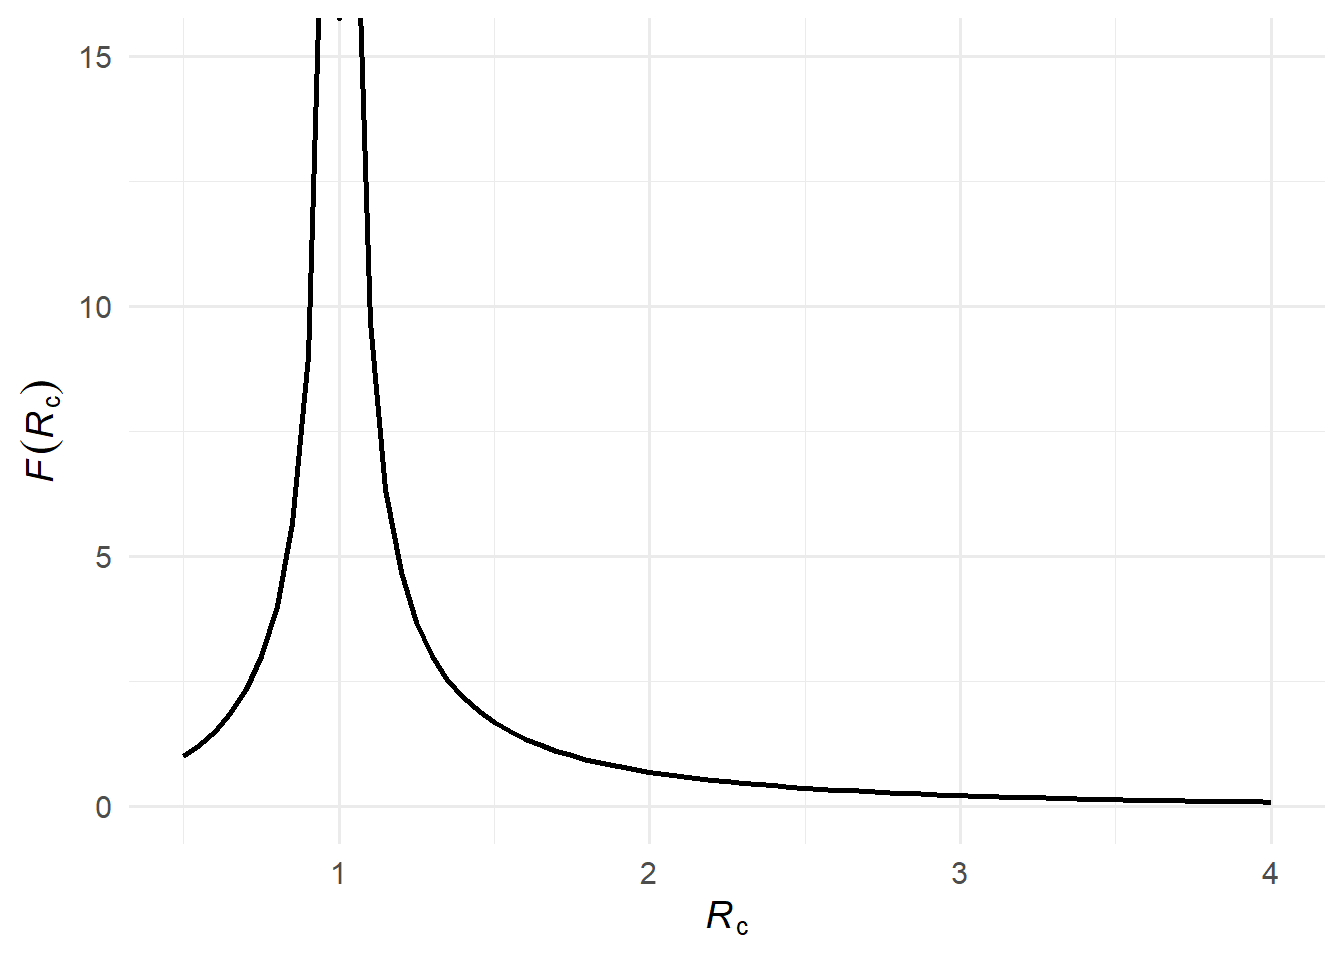
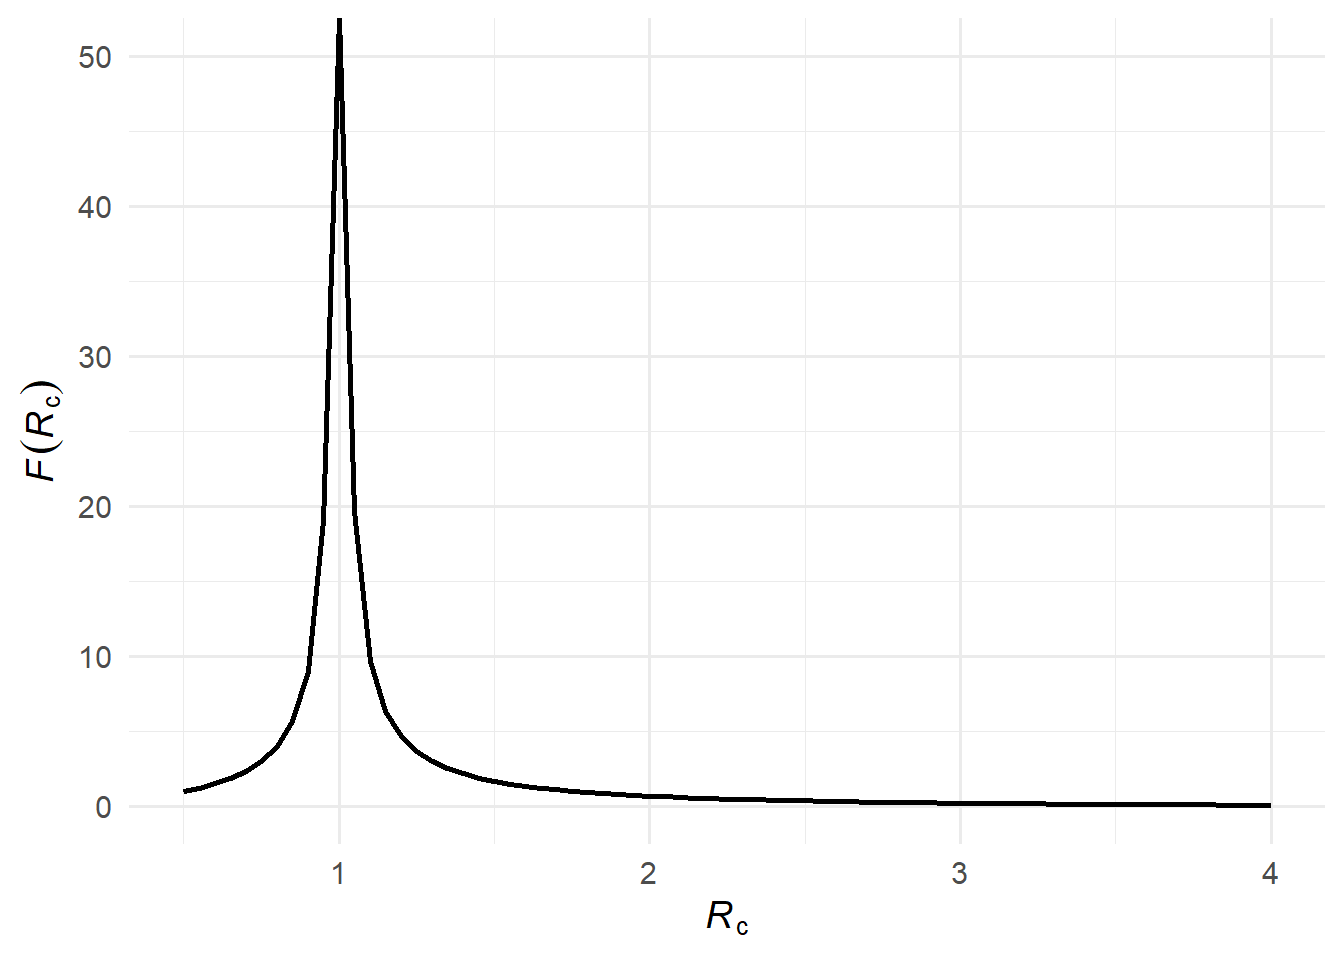
finalized

diff --git a/docs/blog/posts/infections_averted_isolation/index.html b/docs/blog/posts/infections_averted_isolation/index.html
@@ -188,19 +188,19 @@ div.csl-indent {
 <p>When a newly infected person successfully isolates, how many downstream infections does that prevent? The answer depends on the structure of transmission — not just the average reproduction number <span class="math inline">\(\mathcal{R}_c\)</span> (denoting a reproduction number under control), but also on how heterogeneous transmission is, and critically, on how many other infected individuals are circulating at the same time.</p>
 <section id="setting-up-the-problem" class="level2">
 <h2 class="anchored" data-anchor-id="setting-up-the-problem">Setting up the problem</h2>
-<p>Consider a large, well-mixed susceptible population. Each infected individual generates a random number of secondary infections drawn from an <strong>offspring distribution</strong> with probability mass function <span class="math inline">\(p_k = \Pr(K = k)\)</span> and mean <span class="math inline">\(\mathcal{R}_c\)</span>. We work with two canonical choices: Poisson and negative binomial distributions. Both have the same mean <span class="math inline">\(\mathcal{R}_c\)</span> but the negative binomial distrubtion has a additional parameter dispersion <span class="math inline">\(\kappa = 0.16\)</span>, which means that a small fraction of individuals cause a disproportionately large fraction of transmissions (<em>superspreading</em>).</p>
+<p>Consider a large, well-mixed susceptible population. Each infected individual generates a random number of secondary infections drawn from an <strong>offspring distribution</strong> with probability mass function <span class="math inline">\(p_k = \Pr(K = k)\)</span> and mean <span class="math inline">\(\mathcal{R}_c\)</span>. We consider two canonical choices: Poisson and negative binomial. Both share the same mean <span class="math inline">\(\mathcal{R}_c\)</span>, but the negative binomial has an additional dispersion parameter <span class="math inline">\(\kappa = 0.16\)</span>, meaning a small fraction of individuals cause a disproportionately large fraction of transmissions (<em>superspreading</em>).</p>
 <p>We make use of the probability generating function (PGF) of the offspring distribution: <span class="math display">\[
 \mu(x) = \sum_{k=0}^{\infty} p_k x^k,
 \]</span> with <span class="math inline">\(\mathcal{R}_c = \mu'(1)\)</span>.</p>
 </section>
-<section id="the-attack-rate" class="level2">
-<h2 class="anchored" data-anchor-id="the-attack-rate">The attack rate</h2>
-<p>In a large well-mixed epidemic, the final size of the epidemic, or the attack rate <span class="math inline">\(\mathcal{A}(\mathcal{R}_c)\)</span>, depends only on the mean offspring <span class="math inline">\(\mathcal{R}_c\)</span>, not on its distribution <span class="citation" data-cites="roberts2023quantifying">(<a href="#ref-roberts2023quantifying" role="doc-biblioref">Roberts et al. 2023</a>)</span>. The argument is that from any susceptible’s perspective, the total number of transmission attempts she receives is Poisson-distributed with mean <span class="math inline">\(\mathcal{R}_c \mathcal{A}\)</span>, regardless of how heterogeneous those transmissions are across infectors. She escapes infection only if she receives zero attempts, giving the implicit equation <span class="math display">\[
+<section id="the-final-size-of-the-epidemic" class="level2">
+<h2 class="anchored" data-anchor-id="the-final-size-of-the-epidemic">The final size of the epidemic</h2>
+<p>In a large well-mixed epidemic, the attack rate <span class="math inline">\(\mathcal{A}(\mathcal{R}_c)\)</span> depends only on <span class="math inline">\(\mathcal{R}_c\)</span>, not on the shape of the offspring distribution <span class="citation" data-cites="roberts2023quantifying">(<a href="#ref-roberts2023quantifying" role="doc-biblioref">Roberts et al. 2023</a>)</span>. From any susceptible’s perspective, the total number of transmission attempts she receives is Poisson with mean <span class="math inline">\(\mathcal{R}_c \mathcal{A}\)</span>, regardless of how heterogeneous transmission is across infectors. She escapes only if she receives zero attempts, giving <span class="math display">\[
 \mathcal{A} = 1 - e^{-\mathcal{R}_c \, \mathcal{A}}.
 \]</span></p>
 <p>This transcendental equation can be solved iteratively from <span class="math inline">\(\mathcal{A}_0 = 1\)</span>.</p>
 <p>An important consequence is that <span class="math inline">\(\mathcal{R}_\infty = (1-\mathcal{A})\mathcal{R}_c &lt; 1\)</span> for all <span class="math inline">\(\mathcal{R}_c &gt; 1\)</span>, which guarantees that the effective reproduction number at epidemic’s end is always subcritical. This ensures the geometric series for <span class="math inline">\(\mathcal{F}\)</span> (below) always converges.</p>
-<p>Note that using a branching-process-specific final size (e.g.&nbsp;<span class="math inline">\(\mathcal{A} = 1 - \bigl(1 + \mathcal{R}_c\mathcal{A}/\kappa\bigr)^{-\kappa}\)</span> for NB) can violate this guarantee: for heavy-tailed offspring near <span class="math inline">\(\mathcal{R}_c = 1\)</span>, <span class="math inline">\((1-\mathcal{A})\mathcal{R}_c\)</span> may exceed 1, causing <span class="math inline">\(\mathcal{F}\)</span> to diverge.</p>
+<p>An alternative uses the PGF fixed-point <span class="math inline">\(q = \mu(q)\)</span>, whose non-trivial root <span class="math inline">\(q^*\)</span> is the branching-process <strong>extinction probability</strong> — the probability that a single introduction leads to a minor outbreak that dies out on its own. The complement <span class="math inline">\(1-q^*\)</span> is the probability of a major epidemic. For Poisson offspring, <span class="math inline">\(1-q^*\)</span> satisfies the same equation as the SIR attack rate, so the two coincide. For the negative binomial with small <span class="math inline">\(\kappa\)</span>, however, strong superspreading means most chains die out quickly, so <span class="math inline">\(1-q^* &lt; \mathcal{A}_{\text{SIR}}\)</span>: major epidemics are less likely, even though when one does occur it infects a comparable fraction of the population. Using <span class="math inline">\(1-q^*\)</span> in place of <span class="math inline">\(\mathcal{A}\)</span> therefore overstates the remaining susceptibles, pushing <span class="math inline">\((1-\mathcal{A})\mathcal{R}_c\)</span> higher — and near <span class="math inline">\(\mathcal{R}_c = 1\)</span> it can exceed 1, causing <span class="math inline">\(\mathcal{F}\)</span> to diverge.</p>
 <div class="cell">
 <div class="cell-output-display">
 <div id="fig-attack-rate" class="quarto-figure quarto-figure-center anchored">
@@ -214,12 +214,10 @@ div.csl-indent {
 </section>
 <section id="expected-infections-averted-the-residual-offspring-distribution" class="level2">
 <h2 class="anchored" data-anchor-id="expected-infections-averted-the-residual-offspring-distribution">Expected infections averted: the residual offspring distribution</h2>
-<p>When an individual <span class="math inline">\(u\)</span> isolates immediately after becoming infected, this will prevent all infections in her <strong>residual offspring</strong> — offspring who would not be reachable along any other transmission.</p>
-<p>If an individual would cause <span class="math inline">\(i\)</span> transmissions, a fraction <span class="math inline">\(\mathcal{A}(\mathcal{R}_c)\)</span> of them go to individuals who would otherwise be infected through a different chain, as would all their descendants. Therefore, residual offspring is a fraction <span class="math inline">\(1 - \mathcal{A}(\mathcal{R}_c)\)</span> of the offspring.</p>
-<p><span class="citation" data-cites="roberts2023quantifying">Roberts et al. (<a href="#ref-roberts2023quantifying" role="doc-biblioref">2023</a>)</span> show that the average of the residual offspring distribution is the same as the <strong>effective reproduction number at the end of the epidemic</strong>, <span class="math display">\[
-\mathcal{R}_\infty = \bigl[1 - \mathcal{A}(\mathcal{R}_c)\bigr] \, \mathcal{R}_c.
-\]</span></p>
-<p>In other words, the expected number of offspring averted by isolating <span class="math inline">\(u\)</span> (immediately after infection) is <span class="math inline">\(\mathcal{R}_\infty\)</span>. This is the initial reproduction number scaled down by the fraction of the population that remains susceptible when the epidemic burns out.</p>
+<p>When individual <span class="math inline">\(u\)</span> isolates immediately after becoming infected, she prevents all infections in her <strong>residual offspring</strong> — offspring who would not be reached through any alternative transmission chain.</p>
+<p>Of <span class="math inline">\(u\)</span>’s <span class="math inline">\(K\)</span> potential offspring, a fraction <span class="math inline">\(\mathcal{A}(\mathcal{R}_c)\)</span> would have been infected anyway via another chain (and all their descendants too). The remaining fraction <span class="math inline">\(1 - \mathcal{A}(\mathcal{R}_c)\)</span> are truly residual. Therefore the expected number of infections averted by isolating <span class="math inline">\(u\)</span> is <span class="math display">\[
+\mathcal{R}_\infty = \bigl[1 - \mathcal{A}(\mathcal{R}_c)\bigr] \, \mathcal{R}_c,
+\]</span> which <span class="citation" data-cites="roberts2023quantifying">Roberts et al. (<a href="#ref-roberts2023quantifying" role="doc-biblioref">2023</a>)</span> show equals the <strong>effective reproduction number at the end of the epidemic</strong> — the initial reproduction number scaled down by the fraction of the population still susceptible when the epidemic burns out.</p>
 <div class="cell">
 <div class="cell-output-display">
 <div id="fig-R-inf" class="quarto-figure quarto-figure-center anchored">
@@ -230,10 +228,10 @@ div.csl-indent {
 </div>
 </div>
 </div>
-<p>Now let’s consider all the descendants and not just the (direct) offspring. The expected number of descendantss averted among those at generation <span class="math inline">\(g\)</span> by isolating <span class="math inline">\(u\)</span> is <span class="math inline">\(\mathcal{R}_\infty^g\)</span>. Thus, the overall expected number of infections averted when <span class="math inline">\(u\)</span> isolates is the sum of a geometric series: <span class="math display">\[
+<p>Now consider all descendants, not just direct offspring. The expected number of infections averted at generation <span class="math inline">\(g\)</span> is <span class="math inline">\(\mathcal{R}_\infty^g\)</span>. Summing over all generations gives a geometric series: <span class="math display">\[
 \mathcal{F}(\mathcal{R}_c) = \sum_{g=1}^{\infty} \mathcal{R}_\infty^g = \frac{\mathcal{R}_\infty}{1 - \mathcal{R}_\infty}.
 \]</span></p>
-<p>Each generation of <span class="math inline">\(u\)</span>’s descendant chain is expected to have <span class="math inline">\(\mathcal{R}_\infty\)</span> times as many infections as the previous one, and <span class="math inline">\(\mathcal{F}(\mathcal{R}_c)\)</span> sums this over all generations.</p>
+<p>Each successive generation is <span class="math inline">\(\mathcal{R}_\infty\)</span> times the size of the previous one; <span class="math inline">\(\mathcal{F}(\mathcal{R}_c)\)</span> sums this over all generations.</p>
 <div class="cell">
 <div class="cell-output-display">
 <div id="fig-F-R" class="quarto-figure quarto-figure-center anchored">
@@ -247,7 +245,7 @@ div.csl-indent {
 </section>
 <section id="overdetermination-limits-the-benefit-at-high-mathcalr_c" class="level2">
 <h2 class="anchored" data-anchor-id="overdetermination-limits-the-benefit-at-high-mathcalr_c">Overdetermination limits the benefit at high <span class="math inline">\(\mathcal{R}_c\)</span></h2>
-<p><strong>Overdetermination</strong> occurs when a susceptible individual has more than one sufficient cause of infection — meaning she would have been infected even if one of the transmission chains leading to her had been broken. In a high-transmission setting, most susceptibles are reached by multiple independent chains. Removing one chain — by isolating one infected individual — therefore has no effect on the eventual fate of many of those susceptibles. In other words, one’s descendents are overdetermined except for one’s residual descendants.</p>
+<p><strong>Overdetermination</strong> occurs when a susceptible individual has more than one sufficient cause of infection — meaning she would have been infected even if one of the transmission chains leading to her had been broken. In a high-transmission setting, most susceptibles are reached by multiple independent chains. Removing one chain — by isolating one infected individual — therefore has no effect on the eventual fate of many of those susceptibles. In other words, one’s descendants are overdetermined except for one’s residual descendants.</p>
 <p>Formally, this is reflected in <span class="math inline">\(\mathcal{R}_\infty\)</span> becoming small when <span class="math inline">\(\mathcal{R}_c\)</span> is large: a large epidemic infects almost everyone (<span class="math inline">\(\mathcal{A} \approx 1\)</span>), leaving few susceptibles at the end, so <span class="math inline">\(\mathcal{R}_\infty = (1 - \mathcal{A})\mathcal{R}_c \approx 0\)</span> and <span class="math inline">\(\mathcal{F}(\mathcal{R}_c) \approx 0\)</span>.</p>
 </section>
 <section id="the-benefit-is-greatest-near-the-epidemic-threshold" class="level2">
@@ -267,19 +265,21 @@ div.csl-indent {
 <section id="the-full-distribution-rare-but-large-cascades" class="level2">
 <h2 class="anchored" data-anchor-id="the-full-distribution-rare-but-large-cascades">The full distribution: rare but large cascades</h2>
 <p><span class="citation" data-cites="roberts2023quantifying">Roberts et al. (<a href="#ref-roberts2023quantifying" role="doc-biblioref">2023</a>)</span> also derive the full distribution of infections averted. The derivation rests on two ingredients.</p>
-<p><strong>Ingredient 1: the Galton-Watson total-progeny identity.</strong> <span class="math display">\[E[x^T] = \sum_t \Pr(T=t),x^t\]</span></p>
-<p>Let <span class="math inline">\(T\)</span> be the total number of individuals in the cascade (root plus all descendants). The root has <span class="math inline">\(K\)</span> offspring — drawn from a distribution with PGF <span class="math inline">\(g(s) = E[s^K]\)</span> — and each offspring seeds an independent sub-cascade of the same kind, so <span class="math display">\[
+<p><strong>Ingredient 1: the Galton-Watson total-progeny identity.</strong> The key result is <span class="math display">\[
+T(x) = x \cdot \mu\bigl(T(x)\bigr),
+\]</span> where <span class="math inline">\(T(x) = \sum_{t=0}^\infty \Pr(T=t)\,x^t\)</span> is the PGF of the total cascade size <span class="math inline">\(T\)</span>. Here is the derivation.</p>
+<p>Let <span class="math inline">\(T\)</span> be the total number of individuals in the cascade (root plus all descendants). The root has <span class="math inline">\(K\)</span> offspring, each seeding an independent sub-cascade of the same kind, so <span class="math display">\[
 T = 1 + T_1 + T_2 + \cdots + T_K,
-\]</span> where <span class="math inline">\(T_1, T_2, \ldots\)</span> are i.i.d.&nbsp;copies of <span class="math inline">\(T\)</span>. Just as <span class="math inline">\(\mu(x) = \sum_{k=0}^\infty p_k x^k\)</span> is the PGF of the offspring count <span class="math inline">\(K\)</span>, let <span class="math inline">\(T(x) = \sum_{t=0}^\infty \Pr(T=t)\,x^t\)</span> be the PGF of <span class="math inline">\(T\)</span>. Substituting the decomposition <span class="math inline">\(T = 1 + T_1 + \cdots + T_K\)</span> into <span class="math inline">\(\sum_t \Pr(T=t)\,x^t\)</span> is equivalent to computing <span class="math display">\[
-T(x) = \sum_{t} \Pr(T=t)\,x^t = x \cdot \sum_{t_1,\ldots,t_K} \Pr(T_1=t_1)\cdots\Pr(T_K=t_K)\,x^{t_1}\cdots x^{t_K},
-\]</span> which, because the <span class="math inline">\(T_i\)</span> are independent, factors as <span class="math display">\[
-T(x) = x \cdot \prod_{i=1}^{K} T(x) = x \cdot \bigl[T(x)\bigr]^K.
-\]</span> Averaging over the random <span class="math inline">\(K\)</span> using <span class="math inline">\(g(s) = \sum_k p_k s^k\)</span> evaluated at <span class="math inline">\(s = T(x)\)</span>, <span class="math display">\[
-T(x) = x \cdot \sum_{k=0}^\infty p_k \bigl[T(x)\bigr]^k = x \cdot g\bigl(T(x)\bigr).
+\]</span> where <span class="math inline">\(T_1, T_2, \ldots\)</span> are i.i.d.&nbsp;copies of <span class="math inline">\(T\)</span>. Since <span class="math inline">\(x^T = x \cdot x^{T_1+\cdots+T_K}\)</span>, we have <span class="math inline">\(T(x) = E[x^T] = x \cdot E[x^{T_1+\cdots+T_K}]\)</span>. Conditioning on <span class="math inline">\(K = k\)</span>, the <span class="math inline">\(T_i\)</span> are independent, so <span class="math display">\[
+E\bigl[x^{T_1+\cdots+T_k} \mid K = k\bigr] = \prod_{i=1}^{k} E[x^{T_i}] = \bigl[T(x)\bigr]^k.
+\]</span> Averaging over <span class="math inline">\(K\)</span> using <span class="math inline">\(\mu(s) = \sum_{k=0}^\infty p_k s^k\)</span> evaluated at <span class="math inline">\(s = T(x)\)</span>, <span class="math display">\[
+T(x) = x \cdot \sum_{k=0}^\infty p_k \bigl[T(x)\bigr]^k = x \cdot \mu\bigl(T(x)\bigr).
 \]</span></p>
 <p><strong>Ingredient 2: the residual offspring distribution.</strong></p>
-<p>Among <span class="math inline">\(u\)</span>’s <span class="math inline">\(K\)</span> potential offspring, each is <em>residual</em> — not reachable through any alternative chain — independently with probability <span class="math inline">\(\mathcal{R}_\infty\)</span>. Binomial thinning of a distribution with PGF <span class="math inline">\(\mu(s)\)</span> at retention probability <span class="math inline">\(\mathcal{R}_\infty\)</span> gives: <span class="math display">\[
-\mu_{\text{res}}(s) = \mu\!\bigl(1 - \mathcal{R}_\infty + \mathcal{R}_\infty\, s\bigr).
+<p>Among <span class="math inline">\(u\)</span>’s <span class="math inline">\(K\)</span> potential offspring, each is <em>residual</em> — not reachable through any alternative chain — independently with probability <span class="math inline">\(\mathcal{R}_\infty\)</span>. Call the surviving count <span class="math inline">\(K'\)</span>. Conditional on <span class="math inline">\(K = k\)</span>, we have <span class="math inline">\(K' \sim \text{Binomial}(k, \mathcal{R}_\infty)\)</span>, whose PGF follows from the binomial theorem: <span class="math display">\[
+E[s^{K'} \mid K = k] = \sum_{j=0}^{k} \binom{k}{j} \mathcal{R}_\infty^j (1-\mathcal{R}_\infty)^{k-j} s^j = \sum_{j=0}^{k} \binom{k}{j} (\mathcal{R}_\infty s)^j (1-\mathcal{R}_\infty)^{k-j} = \bigl[(1 - \mathcal{R}_\infty) + \mathcal{R}_\infty s\bigr]^k.
+\]</span> Averaging over the random <span class="math inline">\(K\)</span> using the definition <span class="math inline">\(\mu(z) = E[z^K]\)</span>, with <span class="math inline">\(z = 1 - \mathcal{R}_\infty + \mathcal{R}_\infty s\)</span>: <span class="math display">\[
+\mu_{\text{res}}(s) = E[s^{K'}] = E\!\left[(1 - \mathcal{R}_\infty + \mathcal{R}_\infty s)^K\right] = \mu\!\bigl(1 - \mathcal{R}_\infty + \mathcal{R}_\infty\, s\bigr).
 \]</span></p>
 <p><strong>Combining.</strong> The infections averted form a Galton-Watson tree with offspring PGF <span class="math inline">\(\mu_{\text{res}}\)</span>. Substituting into the total-progeny identity gives the PGF <span class="math inline">\(\Omega_\infty(x)\)</span> of the number of infections averted: <span class="math display">\[
 \Omega_\infty(x) = x\,\mu\bigl[1 - \mathcal{R}_\infty + \mathcal{R}_\infty \Omega_\infty(x)\bigr],

diff --git a/docs/blog/index.html b/docs/blog/index.html
@@ -195,7 +195,7 @@ ul.task-list li input[type="checkbox"] {
     </div>
 </div>
 <div class="list quarto-listing-default">
-<div class="quarto-post image-right" data-index="0" data-categories="epidemiology,branching process,isolation,overdetermination" data-listing-date-sort="1773068400000" data-listing-file-modified-sort="1773191684565" data-listing-date-modified-sort="NaN" data-listing-reading-time-sort="13">
+<div class="quarto-post image-right" data-index="0" data-categories="epidemiology,branching process,isolation,overdetermination" data-listing-date-sort="1773068400000" data-listing-file-modified-sort="1773220113419" data-listing-date-modified-sort="NaN" data-listing-reading-time-sort="13">
 <div class="body">
 <a href="../blog/posts/infections_averted_isolation/index.html">
 <h3 class="no-anchor listing-title">
